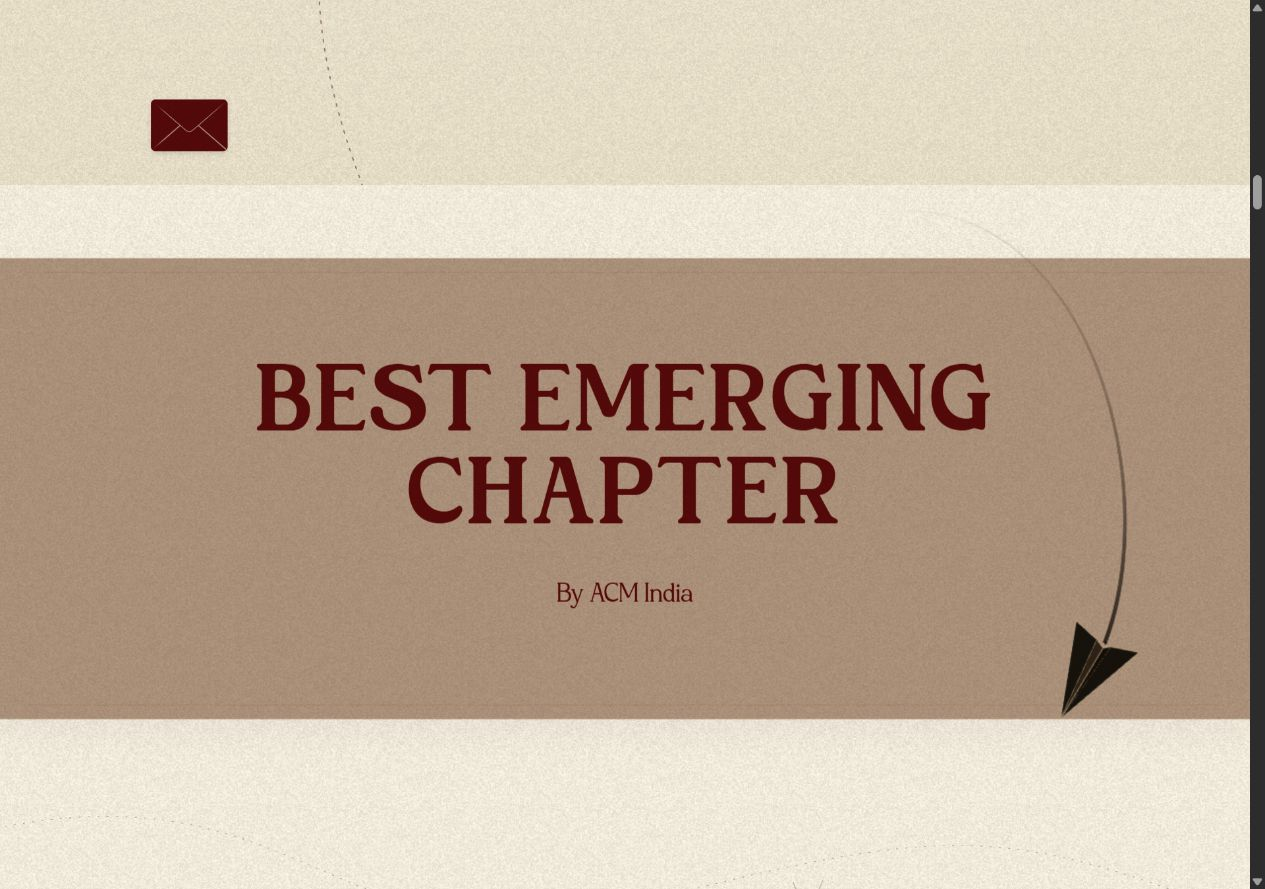
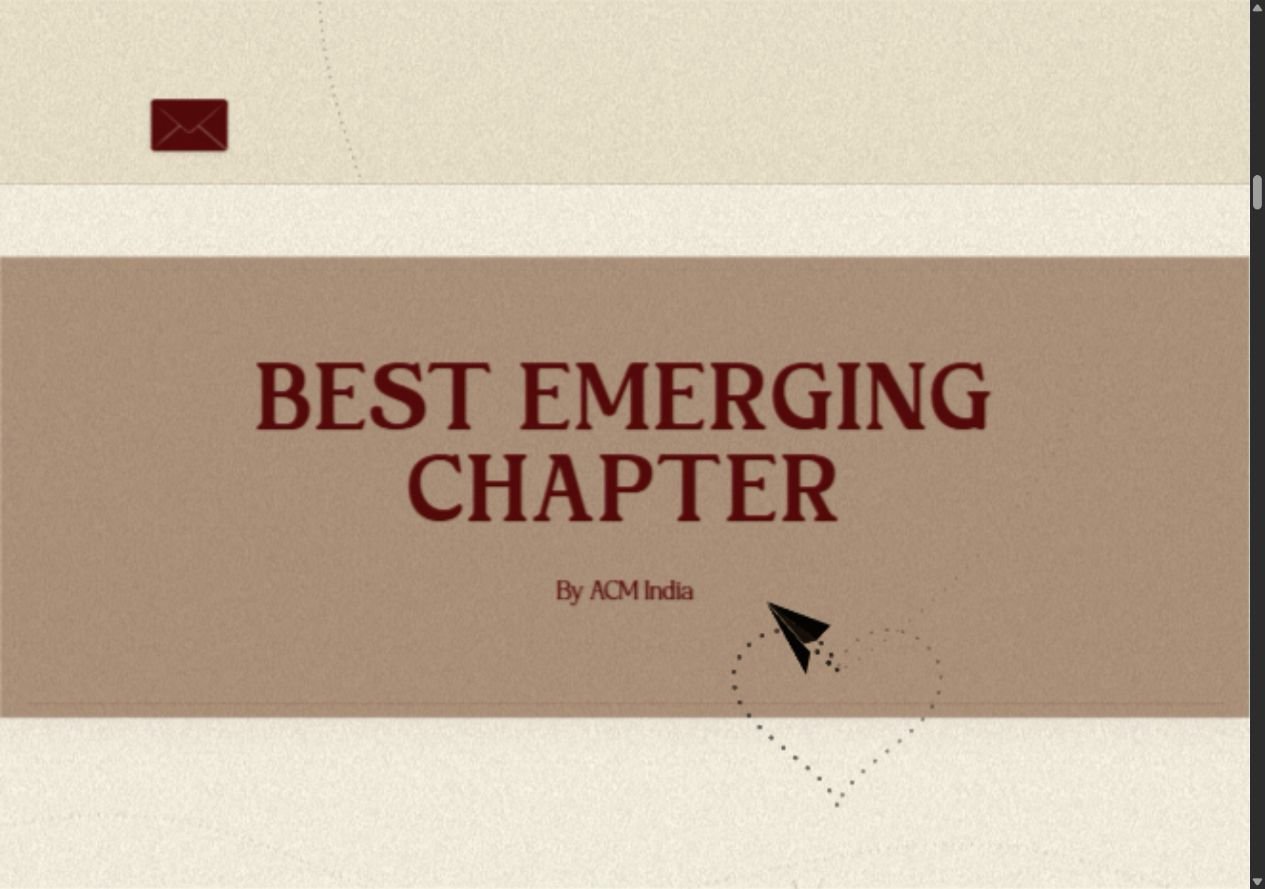
feat: add dotted heart trails and playful award-flight accents
Replace the continuous ink ribbon with clearly spaced round dots that retain consistent screen-space proportions. Expand the lateral flight envelope to 72% of the viewport width so the aircraft can exit either side and return.

Choreograph an actual closed heart flight beside the award credit, briefly hold the camera for readability, and extend trail history during the heart phase. Add pooled hand-drawn turn rays and speed strokes with guards around the award wording.

Preserve the existing 3D maneuvers, visibility lifecycle, and reduced-motion fallback. Update desktop, mobile, and stunt-accent screenshots and document the behavior.

Validation: all 9 award-flight tests pass; ESLint and production build pass. Reviewed a complete desktop flight cycle and mobile layout without browser console errors. The existing large-bundle warning remains.

diff --git a/src/components/awardFlightScene.ts b/src/components/awardFlightScene.ts
@@ -1,6 +1,7 @@
 import * as THREE from 'three';
-import { sampleAwardFlight, type FlightPose } from './awardFlightMotion';
+import { awardHeartCue, sampleAwardFlight, sampleHeartOutline, type FlightPose } from './awardFlightMotion';
 import { createAwardInkTrail } from './awardFlightTrail';
+import { createAwardFlightAccents } from './awardFlightAccents';
 
 export type AwardFlightController = { setActive(active: boolean): void; dispose(): void };
 const TAU = Math.PI * 2;
@@ -61,19 +62,27 @@ export function createAwardFlight(host: HTMLElement, stage: HTMLElement, banner:
   const trail = createAwardInkTrail();
   scene.add(trail.mesh);
   const tail = new THREE.Vector3();
+  const accents = createAwardFlightAccents(stage);
+  const heartWorld = new THREE.Vector3(), previousPosition = new THREE.Vector3();
+  const heartPoint = { x: 0, y: 0 };
+  const heartCenter = new THREE.Vector2();
+  let heartX = 100, heartY = 90, hasPreviousPosition = false;
 
   let width = 1, height = 1, distance = 1000;
   let frame: number | undefined;
   let active = false;
   let lost = false;
   let disposed = false;
-  let elapsed = 1.4;
+  // Introduce the celebratory heart near the start of the first visible pass.
+  let elapsed = 8.2;
   let previousTime: number | undefined;
   let initialized = false;
   const pose: FlightPose = { x: 0, y: 0, z: 0, dx: 0, dy: 0, dz: 0, bank: 0, roll: 0, orbit: 0 };
+  const cameraPose: FlightPose = { ...pose };
   const forward = new THREE.Vector3(), side = new THREE.Vector3(), up = new THREE.Vector3();
   const worldUp = new THREE.Vector3(0, 0, 1), rollAxis = new THREE.Vector3(1, 0, 0);
   const basis = new THREE.Matrix4(), attitude = new THREE.Quaternion(), roll = new THREE.Quaternion();
+  const heartAttitude = new THREE.Quaternion(), heartRoll = new THREE.Quaternion();
   const cameraPosition = new THREE.Vector3(), cameraAim = new THREE.Vector3(), targetAim = new THREE.Vector3();
 
   const measure = () => {
@@ -98,35 +107,64 @@ export function createAwardFlight(host: HTMLElement, stage: HTMLElement, banner:
     host.style.maskImage = maskImage;
     host.style.setProperty('-webkit-mask-image', maskImage);
     trail.resize(width, height);
+    accents.resize(width, height);
+    const credit = banner.querySelector('p')!.getBoundingClientRect();
+    heartY = Math.min(90, Math.max(50, (height - (credit.bottom - bounds.top) - 30) / 2));
+    heartX = Math.min(width < 640 ? 82 : 105, width * .22);
+    heartCenter.set(width * (width < 640 ? .55 : .67), credit.bottom - bounds.top + heartY + 15);
+    hasPreviousPosition = false;
   };
 
   const render = (dt: number) => {
     const phase = (elapsed / 26) % 1;
     sampleAwardFlight(phase, width, height, pose);
+    const heart = awardHeartCue(phase);
+    sampleAwardFlight(heart.cameraPhase, width, height, cameraPose);
     aircraft.plane.position.set(pose.x, pose.y, pose.z);
-    forward.set(pose.dx, pose.dy, pose.dz).normalize();
+
+    // Complete camera orbit: overhead tracking -> low side profile -> opposite side.
+    cameraPosition.set(Math.sin(cameraPose.orbit) * distance * 1.2,
+      Math.sin(TAU * 2 * heart.cameraPhase - .4) * distance * .10,
+      Math.cos(cameraPose.orbit) * distance * 1.2);
+    camera.position.lerp(cameraPosition, initialized ? 1 - Math.exp(-dt * 4) : 1);
+    targetAim.set(cameraPose.x, cameraPose.y, cameraPose.z).multiplyScalar(.13);
+    cameraAim.lerp(targetAim, initialized ? 1 - Math.exp(-dt * 3.5) : 1);
+    camera.up.set(Math.sin(TAU * 3 * heart.cameraPhase) * .018, 1, 0).normalize();
+    camera.lookAt(cameraAim);
+    camera.updateMatrixWorld();
+
+    if (heart.blend > 0) {
+      sampleHeartOutline(heart.progress + .015, heartPoint);
+      const depth = camera.position.distanceTo(cameraAim) * (1 + .025 * Math.sin(heart.progress * TAU * 2));
+      const viewHeight = 2 * Math.tan(THREE.MathUtils.degToRad(camera.fov / 2)) * depth;
+      heartWorld.set((heartCenter.x + heartX * heartPoint.x - width / 2) / height * viewHeight,
+        (height / 2 - heartCenter.y + heartY * heartPoint.y) / height * viewHeight, -depth)
+        .applyQuaternion(camera.quaternion).add(camera.position);
+      aircraft.plane.position.lerp(heartWorld, heart.blend);
+    }
+    if (hasPreviousPosition && dt > 0) forward.subVectors(aircraft.plane.position, previousPosition);
+    else forward.set(pose.dx, pose.dy, pose.dz);
+    if (forward.lengthSq() < .0001) forward.set(pose.dx, pose.dy, pose.dz);
+    forward.normalize();
+    previousPosition.copy(aircraft.plane.position);
+    hasPreviousPosition = true;
     side.crossVectors(worldUp, forward).normalize();
     up.crossVectors(forward, side).normalize();
     basis.makeBasis(forward, side, up);
     attitude.setFromRotationMatrix(basis);
+    heartAttitude.copy(attitude);
     roll.setFromAxisAngle(rollAxis, pose.bank + pose.roll);
     attitude.multiply(roll);
+    heartRoll.setFromAxisAngle(rollAxis, Math.sin(heart.progress * TAU) * .45);
+    heartAttitude.multiply(heartRoll);
+    attitude.slerp(heartAttitude, heart.blend);
     aircraft.plane.quaternion.slerp(attitude, initialized ? 1 - Math.exp(-dt * 13) : 1);
-
-    // Complete camera orbit: overhead tracking -> low side profile -> opposite side.
-    cameraPosition.set(Math.sin(pose.orbit) * distance * 1.2,
-      Math.sin(TAU * 2 * phase - .4) * distance * .10,
-      Math.cos(pose.orbit) * distance * 1.2);
-    camera.position.lerp(cameraPosition, initialized ? 1 - Math.exp(-dt * 4) : 1);
-    targetAim.copy(aircraft.plane.position).multiplyScalar(.13);
-    cameraAim.lerp(targetAim, initialized ? 1 - Math.exp(-dt * 3.5) : 1);
-    camera.up.set(Math.sin(TAU * 3 * phase) * .018, 1, 0).normalize();
-    camera.lookAt(cameraAim);
-    camera.updateMatrixWorld();
 
     tail.set(-1.15, 0, -.05).multiplyScalar(aircraft.plane.scale.x)
       .applyQuaternion(aircraft.plane.quaternion).add(aircraft.plane.position);
-    trail.update(tail, elapsed);
+    tail.lerp(aircraft.plane.position, heart.blend);
+    trail.update(tail, elapsed, camera, heart.lifetime);
+    accents.update(aircraft.plane.position, camera, elapsed, phase, pose.bank, heart.blend);
     renderer.render(scene, camera);
     initialized = true;
   };
@@ -178,6 +216,7 @@ export function createAwardFlight(host: HTMLElement, stage: HTMLElement, banner:
       canvas.removeEventListener('webglcontextrestored', onRestored);
       aircraft.dispose();
       trail.dispose();
+      accents.dispose();
       renderer.dispose();
       renderer.forceContextLoss();
       canvas.remove();

diff --git a/src/components/awardFlightTrail.ts b/src/components/awardFlightTrail.ts
@@ -1,6 +1,6 @@
 import * as THREE from 'three';
 
-const SAMPLES = 192;
+const SAMPLES = 384;
 const LIFETIME = 3.2;
 const SAMPLE_INTERVAL = 1 / 60;
 
@@ -11,6 +11,8 @@ export function createAwardInkTrail() {
   const next = new Float32Array(positions.length);
   const sides = new Float32Array(SAMPLES * 2);
   const freshness = new Float32Array(SAMPLES * 2);
+  const distances = new Float32Array(SAMPLES * 2);
+  const projected = new THREE.Vector3();
   const indices = new Uint16Array((SAMPLES - 1) * 6);
   const history = Array.from({ length: SAMPLES }, () => new THREE.Vector3());
   const timestamps = new Float64Array(SAMPLES);
@@ -28,20 +30,24 @@ export function createAwardInkTrail() {
   geometry.setAttribute('aPrevious', dynamic(previous, 3));
   geometry.setAttribute('aNext', dynamic(next, 3));
   geometry.setAttribute('aFreshness', dynamic(freshness, 1));
+  geometry.setAttribute('aDistance', dynamic(distances, 1));
   geometry.setAttribute('aSide', new THREE.BufferAttribute(sides, 1));
   geometry.setIndex(new THREE.BufferAttribute(indices, 1));
   const material = new THREE.ShaderMaterial({
     transparent: true, depthWrite: false, side: THREE.DoubleSide,
-    uniforms: { uResolution: { value: new THREE.Vector2(1, 1) }, uWidth: { value: 5.5 } },
+    uniforms: { uResolution: { value: new THREE.Vector2(1, 1) }, uWidth: { value: 5.5 }, uSpacing: { value: 16 } },
     vertexShader: `
       attribute vec3 aPrevious;
       attribute vec3 aNext;
       attribute float aSide;
       attribute float aFreshness;
+      attribute float aDistance;
       uniform vec2 uResolution;
       uniform float uWidth;
       varying float vAcross;
       varying float vFreshness;
+      varying float vDistance;
+      varying float vRadius;
       void main() {
         vec4 current = projectionMatrix * modelViewMatrix * vec4(position, 1.0);
         vec4 before = projectionMatrix * modelViewMatrix * vec4(aPrevious, 1.0);
@@ -55,13 +61,20 @@ export function createAwardInkTrail() {
         gl_Position = current;
         vAcross = aSide;
         vFreshness = aFreshness;
+        vDistance = aDistance;
+        vRadius = uWidth * taper * 0.5;
       }`,
     fragmentShader: `
       varying float vAcross;
       varying float vFreshness;
+      varying float vDistance;
+      varying float vRadius;
+      uniform float uSpacing;
       void main() {
-        float edge = 1.0 - smoothstep(0.55, 1.0, abs(vAcross));
-        float alpha = 0.84 * pow(vFreshness, 1.3) * edge;
+        float along = mod(vDistance + uSpacing * 0.5, uSpacing) - uSpacing * 0.5;
+        float dotDistance = length(vec2(along, vAcross * vRadius)) - vRadius;
+        float edge = 1.0 - smoothstep(-0.6, 0.6, dotDistance);
+        float alpha = 0.94 * pow(vFreshness, 1.1) * edge;
         gl_FragColor = vec4(0.105, 0.075, 0.055, alpha);
       }`,
   });
@@ -78,12 +91,13 @@ export function createAwardInkTrail() {
     resize(width: number, height: number) {
       material.uniforms.uResolution.value.set(width, height);
       material.uniforms.uWidth.value = width < 640 ? 4.25 : 5.5;
+      material.uniforms.uSpacing.value = width < 640 ? 12 : 16;
       ready = false;
     },
-    update(tail: THREE.Vector3, time: number) {
+    update(tail: THREE.Vector3, time: number, camera?: THREE.Camera, lifetime = LIFETIME) {
       if (!ready) {
         history.forEach(point => point.copy(tail));
-        timestamps.fill(time - LIFETIME);
+        timestamps.fill(time - 6.4);
         ready = true;
       }
       if (time - lastStored >= SAMPLE_INTERVAL - 1e-6) {
@@ -92,17 +106,28 @@ export function createAwardInkTrail() {
         timestamps[index] = time;
         lastStored = time;
       }
+      let distance = 0, lastX = 0, lastY = 0;
       for (let i = 0; i < SAMPLES; i++) {
         const slot = (index - Math.max(0, i - 1) + SAMPLES) % SAMPLES;
         const point = i === 0 ? tail : history[slot];
         const age = i === 0 ? 0 : time - timestamps[slot];
-        const strength = Math.max(0, Math.min(1, 1 - age / LIFETIME));
+        const strength = Math.max(0, Math.min(1, 1 - age / lifetime));
+        projected.copy(point);
+        if (camera) {
+          projected.project(camera);
+          projected.x *= material.uniforms.uResolution.value.x / 2;
+          projected.y *= material.uniforms.uResolution.value.y / 2;
+        }
+        if (i) distance += Math.hypot(projected.x - lastX, projected.y - lastY);
+        lastX = projected.x;
+        lastY = projected.y;
         for (let side = 0; side < 2; side++) {
           const vertex = i * 2 + side, offset = vertex * 3;
           positions[offset] = point.x;
           positions[offset + 1] = point.y;
           positions[offset + 2] = point.z;
           freshness[vertex] = strength;
+          distances[vertex] = distance;
         }
       }
       for (let i = 0; i < SAMPLES; i++) {
@@ -116,7 +141,7 @@ export function createAwardInkTrail() {
           }
         }
       }
-      for (const name of ['position', 'aPrevious', 'aNext', 'aFreshness']) geometry.getAttribute(name).needsUpdate = true;
+      for (const name of ['position', 'aPrevious', 'aNext', 'aFreshness', 'aDistance']) geometry.getAttribute(name).needsUpdate = true;
     },
     dispose() { geometry.dispose(); material.dispose(); },
   };

diff --git a/src/components/awardFlightAccents.ts b/src/components/awardFlightAccents.ts
@@ -1,0 +1,93 @@
+import * as THREE from 'three';
+
+/** A small reusable SVG pool for quick, hand-inked stunt and speed accents. */
+export function createAwardFlightAccents(host: HTMLElement) {
+  const ns = 'http://www.w3.org/2000/svg';
+  const svg = document.createElementNS(ns, 'svg');
+  svg.setAttribute('class', 'award-flight-accents');
+  svg.setAttribute('aria-hidden', 'true');
+  const effects = Array.from({ length: 5 }, () => {
+    const group = document.createElementNS(ns, 'g');
+    const path = document.createElementNS(ns, 'path');
+    path.setAttribute('fill', 'none');
+    path.setAttribute('stroke', '#33221b');
+    path.setAttribute('stroke-width', '2.6');
+    path.setAttribute('stroke-linecap', 'round');
+    group.appendChild(path);
+    group.style.opacity = '0';
+    svg.appendChild(group);
+    return { group, path, born: -Infinity, x: 0, y: 0, angle: 0, kind: 'turn' };
+  });
+  host.appendChild(svg);
+  const projected = new THREE.Vector3();
+  let width = 1, height = 1, lastX = 0, lastY = 0, lastTime = -Infinity;
+  let lastCue = -Infinity, lastStunt = -Infinity, cursor = 0;
+  let turnArmed = true, zoomArmed = true;
+  let previousPhase = 0;
+  let protectedText: Array<{ left: number; right: number; top: number; bottom: number }> = [];
+  const stunts = [.10, .19, .27, .58, .67, .80, .89, .97];
+  const spawn = (time: number, x: number, y: number, angle: number, kind: string) => {
+    const isOverText = (px: number, py: number) => protectedText.some(r => px > r.left - 32 && px < r.right + 32 && py > r.top - 32 && py < r.bottom + 32);
+    if (isOverText(x, y)) {
+      const candidates = protectedText.flatMap(r => [
+        { x, y: r.top - 44 }, { x, y: r.bottom + 44 },
+        { x: r.left - 48, y }, { x: r.right + 48, y },
+      ]).filter(p => p.x > 35 && p.x < width - 35 && p.y > 35 && p.y < height - 35 && !isOverText(p.x, p.y));
+      candidates.sort((a, b) => Math.hypot(a.x - x, a.y - y) - Math.hypot(b.x - x, b.y - y));
+      if (candidates[0]) { x = candidates[0].x; y = candidates[0].y; }
+      else return;
+    }
+    const effect = effects[cursor++ % effects.length];
+    Object.assign(effect, { born: time, x, y, angle, kind });
+    effect.path.setAttribute('d', kind === 'zoom'
+      ? 'M-42-12h-25M-47 0h-34M-42 12h-20'
+      : 'M-13-12l-8-13M1-17l1-17M15-12l11-11M0-8l-1 10M-1 9h.1');
+  };
+  return {
+    resize(w: number, h: number) {
+      width = w; height = h;
+      svg.setAttribute('viewBox', `0 0 ${w} ${h}`);
+      const frame = host.getBoundingClientRect();
+      protectedText = [...host.querySelectorAll('[data-award-banner] h2, [data-award-banner] p')].map(element => {
+        const r = element.getBoundingClientRect();
+        return { left: r.left - frame.left, right: r.right - frame.left, top: r.top - frame.top, bottom: r.bottom - frame.top };
+      });
+      effects.forEach(effect => { effect.born = -Infinity; effect.group.style.opacity = '0'; });
+      lastTime = -Infinity;
+    },
+    update(position: THREE.Vector3, camera: THREE.Camera, time: number, phase: number, bank: number, heart: number) {
+      projected.copy(position).project(camera);
+      const x = (projected.x + 1) * width / 2, y = (1 - projected.y) * height / 2;
+      const dt = time - lastTime;
+      const dx = x - lastX, dy = y - lastY;
+      const speed = dt > 0 && dt < .2 ? Math.hypot(dx, dy) / dt : 0;
+      const angle = Math.atan2(dy, dx) * 180 / Math.PI;
+      const visible = x > 20 && x < width - 20 && y > 20 && y < height - 20;
+      const fast = width < 640 ? 250 : 420;
+      if (Math.abs(bank) < .7) turnArmed = true;
+      if (speed < fast * .65 || !visible) zoomArmed = true;
+      const stunt = stunts.some(cue => previousPhase < cue && phase >= cue);
+      if (visible && heart < .15) {
+        if ((stunt || (turnArmed && Math.abs(bank) > 1.15)) && time - lastStunt > .7) {
+          spawn(time, x + 38, y - 22, angle * .12, 'turn');
+          lastStunt = lastCue = time;
+          turnArmed = false;
+        } else if (zoomArmed && speed > fast && time - lastCue > .8) {
+          spawn(time, x, y, angle, 'zoom');
+          lastCue = time;
+          zoomArmed = false;
+        }
+      }
+      for (const effect of effects) {
+        const age = time - effect.born;
+        if (age < 0 || age > .68) { effect.group.style.opacity = '0'; continue; }
+        const p = age / .68;
+        const scale = (width < 640 ? .78 : 1) * (.72 + .38 * Math.sin(p * Math.PI * .7));
+        effect.group.style.opacity = String(.85 * Math.pow(Math.sin(p * Math.PI), .6));
+        effect.group.style.transform = `translate(${effect.x}px, ${effect.y - p * 10}px) rotate(${effect.angle}deg) scale(${scale})`;
+      }
+      lastX = x; lastY = y; lastTime = time; previousPhase = phase;
+    },
+    dispose() { svg.remove(); },
+  };
+}

diff --git a/src/components/awardFlightMotion.ts b/src/components/awardFlightMotion.ts
@@ -15,7 +15,7 @@ export type FlightPose = {
 export function sampleAwardFlight(phase: number, width: number, height: number, out: FlightPose): FlightPose {
   // Positive speed throughout: fast straight crossovers, slow lobe apexes.
   const theta = TAU * (2 * phase + .035 * Math.sin(TAU * 4 * phase));
-  const a = width * .50, b = height * .40, c = height * .045;
+  const a = width * .72, b = height * .40, c = height * .045;
   const dx = a * Math.cos(theta);
   const dy = 2 * b * Math.cos(2 * theta) + 3 * c * Math.cos(3 * theta);
   const ddx = -a * Math.sin(theta);
@@ -32,5 +32,22 @@ export function sampleAwardFlight(phase: number, width: number, height: number, 
   out.roll = TAU * smooth(.10, .27, phase) - TAU * smooth(.80, .97, phase)
     + Math.PI * inverted;
   out.orbit = Math.PI * .75 + TAU * phase + .24 * Math.sin(TAU * 2 * phase);
+  return out;
+}
+
+export function awardHeartCue(phase: number) {
+  return {
+    blend: smooth(.30, .36, phase) - smooth(.50, .56, phase),
+    progress: clamp((phase - .36) / .14, 0, 1),
+    cameraPhase: phase < .30 ? phase : .30 + (phase - .30) * smooth(.58, .72, phase),
+    lifetime: 3.2 + 2.8 * (smooth(.30, .36, phase) - smooth(.59, .67, phase)),
+  };
+}
+
+/** A closed heart, rather than a heart icon emitted by an unrelated path. */
+export function sampleHeartOutline(progress: number, out: { x: number; y: number }) {
+  const t = TAU * progress;
+  out.x = Math.pow(Math.sin(t), 3);
+  out.y = (13 * Math.cos(t) - 5 * Math.cos(2 * t) - 2 * Math.cos(3 * t) - Math.cos(4 * t) + 2.5) / 14.5;
   return out;
 }

diff --git a/src/pages/BestChapter.css b/src/pages/BestChapter.css
@@ -55,3 +55,6 @@
 .award-flight-fallback { position: absolute; top: 12px; right: 14%; width: clamp(50px, 6vw, 76px); height: auto; }
 .award-flight[data-renderer="webgl"] .award-flight-fallback { display: none; }
 .award-flight[data-renderer="fallback"] .award-flight-canvas { visibility: hidden; }
+.award-flight-accents { position: absolute; inset: 0; z-index: 2; width: 100%; height: 100%; overflow: visible; pointer-events: none; }
+.award-flight-accents g { transform-origin: 0 0; transform-box: view-box; }
+.award-flight[data-renderer="fallback"] ~ .award-flight-accents { visibility: hidden; }

diff --git a/docs/award-flight.md b/docs/award-flight.md
@@ -4,7 +4,9 @@ The award scene uses a deferred Three.js renderer with a folded, double-sided pa
 
 - `awardFlightMotion.ts` owns continuous motion and maneuver timing. `npm run test:award-flight` checks loop continuity, bounded banking, complete rolls/inversion, and speed variation.
 - `awardFlightScene.ts` owns mesh, lighting, camera, pooled trail buffers, text occlusion, context recovery, resizing, and GPU disposal.
-- `awardFlightTrail.ts` renders a camera-facing ink ribbon at 5.5 CSS pixels on desktop and 4.25 on phones. Its dark center tapers and fades over 3.2 seconds; timestamped history keeps the fade independent of frame rate. The ribbon starts at the aircraft tail and uses one draw call with reusable buffers.
+- `awardFlightTrail.ts` renders bold, round ink dots at 5.5 CSS pixels on desktop and 4.25 on phones, with consistent projected spacing. Timestamped history normally fades over 3.2 seconds and extends to six seconds for the heart loop. The GPU ribbon uses one draw call and reusable buffers.
+- The lateral envelope reaches 72% of the section width in either direction, allowing off-screen exits and returns. A dedicated approach and closed heart maneuver plays near the attribution; the camera briefly holds to keep the shape readable.
+- `awardFlightAccents.ts` pools brief hand-drawn exclamation rays and speed strokes. Turn thresholds, stunt cues and rapid passes trigger them, with cooldowns and text clearance; heart drawing suppresses these accents.
 - `PaperPlaneAnimation.tsx` loads the scene near the viewport and pauses it off-screen or in a hidden document. Reduced motion and unavailable WebGL retain a static SVG illustration.
 - A measured, softly feathered alpha mask attenuates the aircraft behind the text blocks so the lettering stays legible without the flight disappearing. The banner keeps its existing six-pixel float; its DOM never follows the aircraft camera.
 
